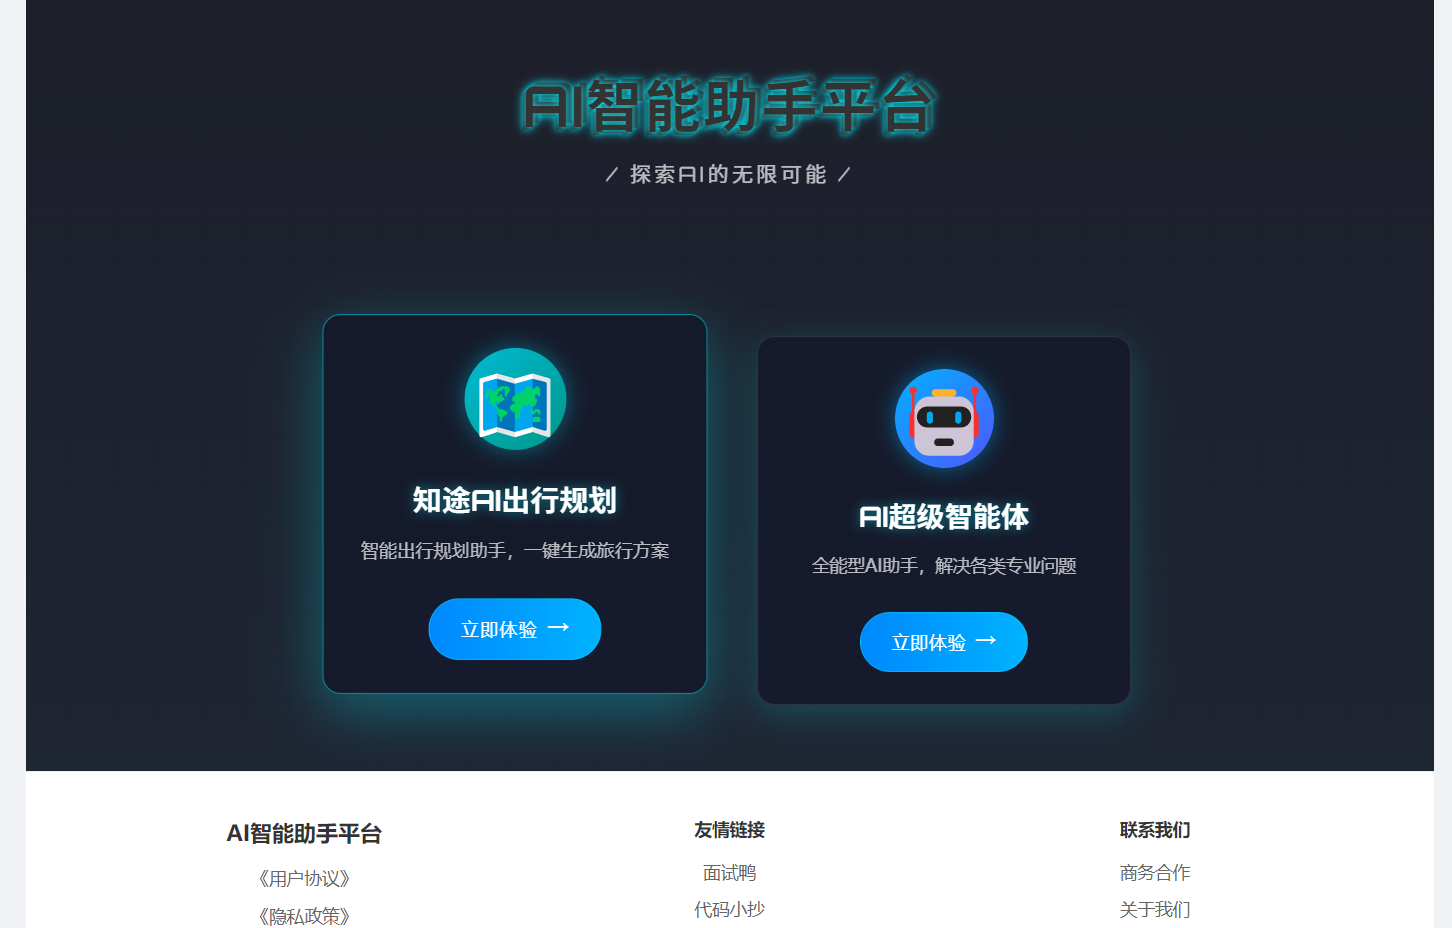
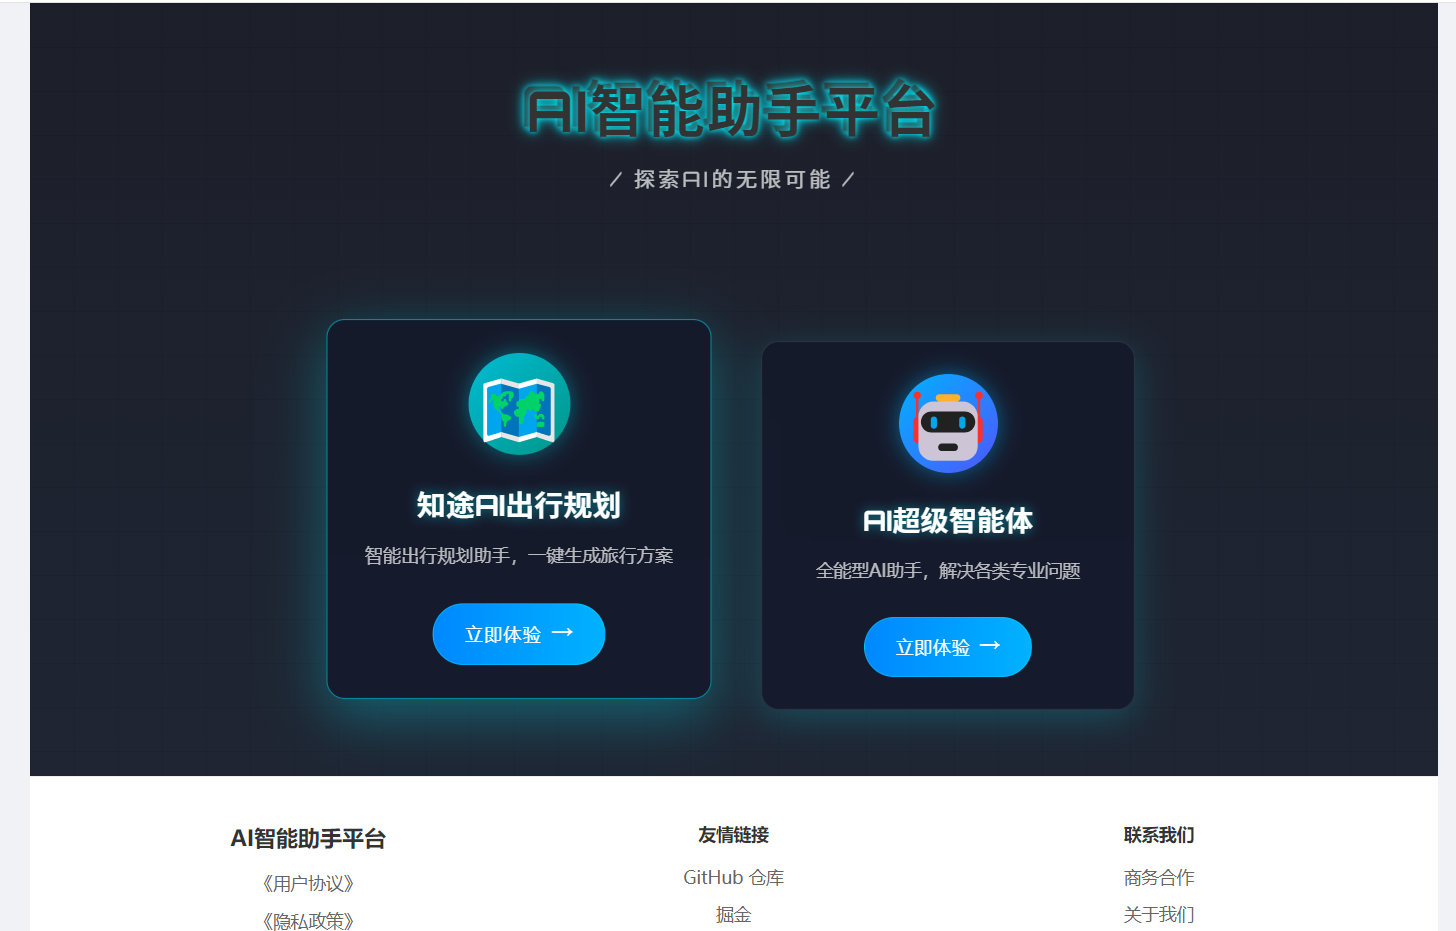
feat: 完善本地开发配置、优化向量库异常处理、更新截图

diff --git a/zhitu-travel-frontend/src/components/AppFooter.vue b/zhitu-travel-frontend/src/components/AppFooter.vue
@@ -14,8 +14,8 @@
       <div class="footer-section">
         <h4>友情链接</h4>
         <div class="footer-links">
-          <a href="https://www.mianshiya.com" target="_blank">面试鸭</a>
-          <a href="#" target="_blank">代码小抄</a>
+          <a href="https://github.com/ichyang/yuntu-ai-travel" target="_blank">GitHub 仓库</a>
+          <a href="https://juejin.cn" target="_blank">掘金</a>
         </div>
       </div>
       

diff --git a/src/main/java/com/zhitu/travel/rag/PgVectorVectorStoreConfig.java b/src/main/java/com/zhitu/travel/rag/PgVectorVectorStoreConfig.java
@@ -1,6 +1,8 @@
 package com.zhitu.travel.rag;
 
 import jakarta.annotation.Resource;
+import org.slf4j.Logger;
+import org.slf4j.LoggerFactory;
 import org.springframework.ai.document.Document;
 import org.springframework.ai.embedding.EmbeddingModel;
 import org.springframework.ai.vectorstore.VectorStore;
@@ -20,23 +22,36 @@ import static org.springframework.ai.vectorstore.pgvector.PgVectorStore.PgIndexT
 @Configuration
 public class PgVectorVectorStoreConfig {
 
+    private static final Logger log = LoggerFactory.getLogger(PgVectorVectorStoreConfig.class);
+    private static final int BATCH_SIZE = 20;
+
     @Resource
     private TravelDocumentLoader travelDocumentLoader;
 
     @Bean
     public VectorStore pgVectorVectorStore(JdbcTemplate jdbcTemplate, EmbeddingModel dashscopeEmbeddingModel) {
         VectorStore vectorStore = PgVectorStore.builder(jdbcTemplate, dashscopeEmbeddingModel)
-                .dimensions(1536)                    // Optional: defaults to model dimensions or 1536
-                .distanceType(COSINE_DISTANCE)       // Optional: defaults to COSINE_DISTANCE
-                .indexType(HNSW)                     // Optional: defaults to HNSW
-                .initializeSchema(true)              // Optional: defaults to false
-                .schemaName("public")                // Optional: defaults to "public"
-                .vectorTableName("vector_store")     // Optional: defaults to "vector_store"
-                .maxDocumentBatchSize(10000)         // Optional: defaults to 10000
+                .dimensions(1536)
+                .distanceType(COSINE_DISTANCE)
+                .indexType(HNSW)
+                .initializeSchema(true)
+                .schemaName("public")
+                .vectorTableName("vector_store")
+                .maxDocumentBatchSize(10000)
                 .build();
-        // 加载文档
+        // 加载文档（分批处理，避免 API 限制）
         List<Document> documents = travelDocumentLoader.loadMarkdowns();
-        vectorStore.add(documents);
+        int total = documents.size();
+        for (int i = 0; i < total; i += BATCH_SIZE) {
+            int end = Math.min(i + BATCH_SIZE, total);
+            List<Document> batch = documents.subList(i, end);
+            try {
+                vectorStore.add(batch);
+                log.info("已加载文档 {}/{}", end, total);
+            } catch (Exception e) {
+                log.warn("批量加载文档时出错 ({}/{}): {}", i, total, e.getMessage());
+            }
+        }
         return vectorStore;
     }
 }

diff --git a/src/main/java/com/zhitu/travel/rag/TravelVectorStoreConfig.java b/src/main/java/com/zhitu/travel/rag/TravelVectorStoreConfig.java
@@ -1,9 +1,10 @@
 package com.zhitu.travel.rag;
 
 import jakarta.annotation.Resource;
+import org.slf4j.Logger;
+import org.slf4j.LoggerFactory;
 import org.springframework.ai.document.Document;
 import org.springframework.ai.embedding.EmbeddingModel;
-import org.springframework.ai.transformer.splitter.TokenTextSplitter;
 import org.springframework.ai.vectorstore.SimpleVectorStore;
 import org.springframework.ai.vectorstore.VectorStore;
 import org.springframework.context.annotation.Bean;
@@ -17,6 +18,8 @@ import java.util.List;
 @Configuration
 public class TravelVectorStoreConfig {
 
+    private static final Logger log = LoggerFactory.getLogger(TravelVectorStoreConfig.class);
+
     @Resource
     private TravelDocumentLoader travelDocumentLoader;
 
@@ -29,13 +32,15 @@ public class TravelVectorStoreConfig {
     @Bean
     VectorStore travelVectorStore(EmbeddingModel dashscopeEmbeddingModel) {
         SimpleVectorStore simpleVectorStore = SimpleVectorStore.builder(dashscopeEmbeddingModel).build();
-        // 加载文档
-        List<Document> documentList = travelDocumentLoader.loadMarkdowns();
-        // 自主切分文档
-//        List<Document> splitDocuments = myTokenTextSplitter.splitCustomized(documentList);
-        // 自动补充关键词元信息
-        List<Document> enrichedDocuments = myKeywordEnricher.enrichDocuments(documentList);
-        simpleVectorStore.add(enrichedDocuments);
+        try {
+            // 加载文档
+            List<Document> documentList = travelDocumentLoader.loadMarkdowns();
+            // 自动补充关键词元信息
+            List<Document> enrichedDocuments = myKeywordEnricher.enrichDocuments(documentList);
+            simpleVectorStore.add(enrichedDocuments);
+        } catch (Exception e) {
+            log.warn("旅游文档向量化失败（API Key 可能无效），应用仍可正常启动: {}", e.getMessage());
+        }
         return simpleVectorStore;
     }
 }

diff --git a/src/main/java/com/zhitu/travel/config/DevToolConfig.java b/src/main/java/com/zhitu/travel/config/DevToolConfig.java
@@ -1,0 +1,23 @@
+package com.zhitu.travel.config;
+
+import org.springframework.ai.tool.ToolCallback;
+import org.springframework.ai.tool.ToolCallbackProvider;
+import org.springframework.context.annotation.Bean;
+import org.springframework.context.annotation.Configuration;
+
+/**
+ * 本地开发时提供空的 ToolCallbackProvider（禁用 MCP 后使用）
+ */
+@Configuration
+public class DevToolConfig {
+
+    @Bean
+    public ToolCallbackProvider devToolCallbackProvider() {
+        return new ToolCallbackProvider() {
+            @Override
+            public ToolCallback[] getToolCallbacks() {
+                return new ToolCallback[0];
+            }
+        };
+    }
+}

diff --git a/README.md b/README.md
@@ -165,9 +165,3 @@ mvn test
 - ✅ **7 种可扩展工具** — 展示工具调用设计模式
 - ✅ **MCP 协议集成** — 走在 AI 工程化前沿
 - ✅ **生产级工程规范** — 分层架构、异常处理、Docker 部署
-
----
-
-## 📄 许可证
-
-[MIT](LICENSE)
